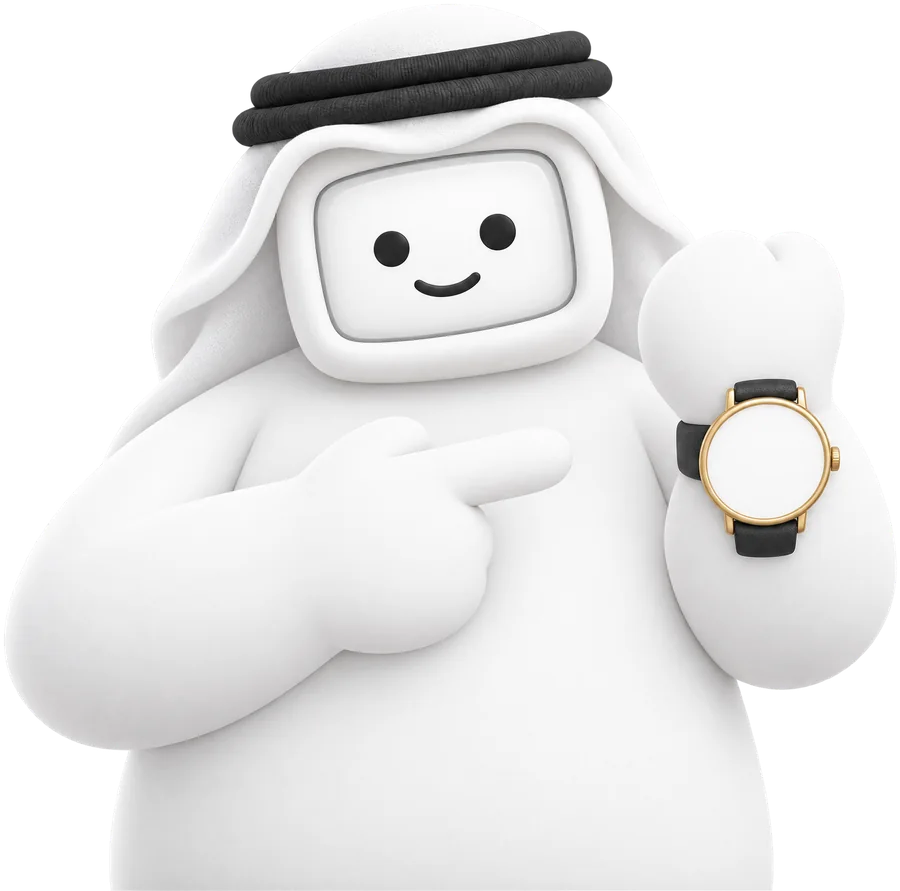
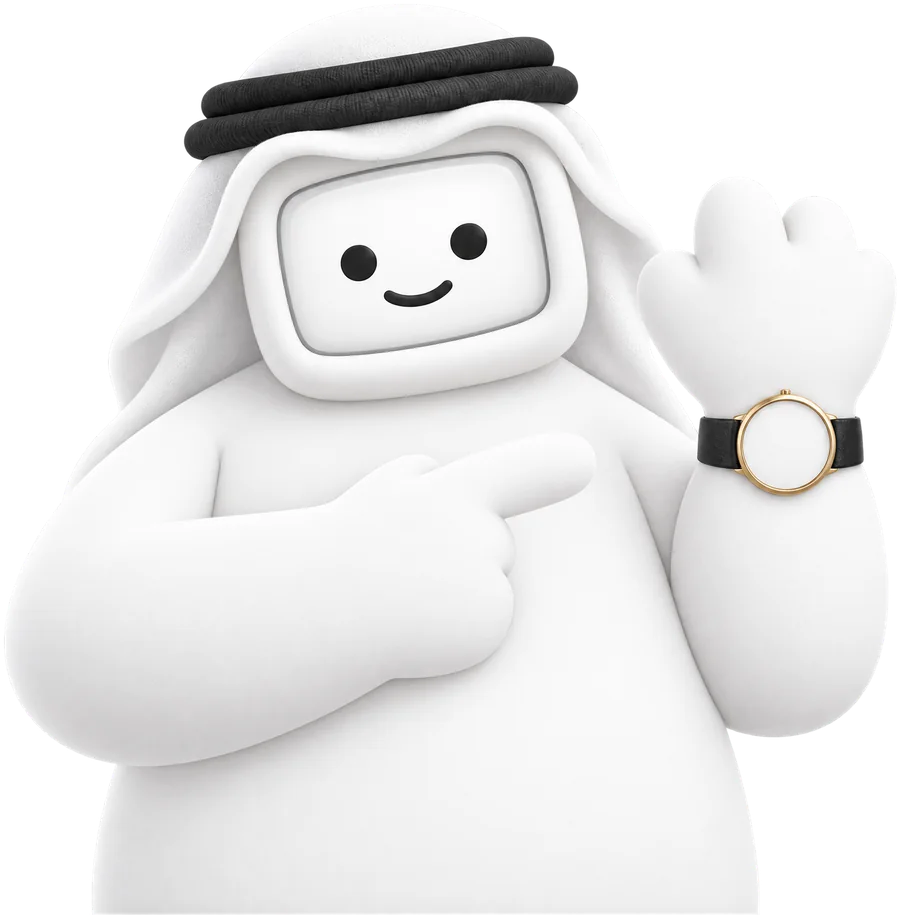
Footer: watch worn on the wrist, real-time ticking hands, body sinks behind the portal lip
- New mascot image: the watch strap wraps the wrist below the hand
  (the first one sat on the side of the fist; archived in art/unused).
- The hands show the visitor's real time and the second hand ticks once
  a second (10:10 in the prerendered HTML; no second hand with reduced
  motion), instead of a minute hand spinning every 3 seconds.
- The portal is one SVG: the mascot is clipped by «everything above the
  hole + the hole itself», so the body goes down into the hole and hides
  behind the front lip along its curve, darkening as it sinks, instead of
  ending on a straight line. The rise still follows the scroll through a
  named view timeline on the HTML wrapper.

Claude-Session: https://claude.ai/code/session_01HEToeVJCXjzhD9Jpw8sRiS

diff --git a/src/components/footer/Footer.tsx b/src/components/footer/Footer.tsx
@@ -1,3 +1,5 @@
+import { useEffect, useRef } from "react";
+import { reduced } from "../../lib/gsap";
 import { APP_URL, LOGIN_URL, SIGNUP_URL } from "../../lib/links";
 import { Ink } from "../Ink";
 import { Container } from "../layout";
@@ -5,7 +7,7 @@ import { LINKS } from "../Nav";
 
 /*
  * الفوتر: الختام فوق (لا تضيّع وقت + سجّل/دخول)، وبعده الشخصية طالعة من بوابة بيضاوية على خط الأفق
- * وتورّيك ساعتها (العقارب تدور)، وتحت الخط الروابط وبيانات المؤسسة.
+ * وتورّيك ساعتها (تمشي على الوقت الحقيقي وعقرب الثواني يتكتك)، وتحت الخط الروابط وبيانات المؤسسة.
  */
 const GROUPS = [
   { title: "الصفحة", links: LINKS },
@@ -104,77 +106,112 @@ export function Footer() {
 }
 
 /*
- * البوابة: خط أفق بعرض المحتوى، وفي نصه فتحة بيضاوية غامقة بحافة بالتدرّج، والشخصية طالعة منها.
- * الطبقات: نص الفتحة اللي ورا (والحافة اللي فوق) ← الشخصية (مقصوصة عند نص الفتحة وتذوب في الظلام) ← الحافة اللي قدّام.
- * لما ينزل الزائر للفوتر الشخصية تطلع من الفتحة (rise في index.css). القص overflow-clip مو hidden،
- * لأن hidden يخلّي الصندوق نفسه حاوية تمرير فالحركة تتبعه بدل الصفحة.
- * الساعة: مكان الوجه من الصورة نفسها (900×891): المركز عند 85.05٪ بالعرض و51.76٪ بالطول، وقطره 12.86٪ من العرض.
+ * البوابة: SVG واحد بعرض الفتحة (1000 وحدة)، وخط الأفق يمر من نصها.
+ * الطبقات: جوف الفتحة والحافة اللي ورا ← الشخصية ← الحافة اللي قدّام.
+ * الشخصية مقصوصة بـ(كل اللي فوق نص الفتحة + الفتحة نفسها): جسمها ينزل داخل الفتحة، ويختفي ورا الحافة اللي قدّام
+ * بنفس انحناءها، ويغمق كل ما نزل. لما ينزل الزائر للفوتر تطلع من الفتحة (rise في index.css، على خط زمني --portal).
+ * الصورة: مقاسها ومكان وجه الساعة فيها (نسبة من عرضها وطولها) في IMG. لو تغيّرت الصورة غيّر الأرقام هنا بس.
  */
+const IMG = { src: "/footer/watch.webp", w: 900, h: 915, dial: { x: 0.874, y: 0.4855, rx: 0.0489, ry: 0.0491 } };
+const HOLE = { w: 1000, cy: 760, rx: 494, ry: 122 };
+const ART_W = 760;
+const ART_H = (ART_W * IMG.h) / IMG.w;
+const ART_X = (HOLE.w - ART_W) / 2;
+const ART_Y = HOLE.cy + HOLE.ry * 0.92 - ART_H; // الخصر تحت الحافة اللي قدّام (مخفي)
+const VIEW_H = HOLE.cy + HOLE.ry + 20;
+const arc = (sweep: 0 | 1) => `M${HOLE.w / 2 - HOLE.rx} ${HOLE.cy}a${HOLE.rx} ${HOLE.ry} 0 0 ${sweep} ${2 * HOLE.rx} 0`;
+
 function Portal() {
+  const { cy, rx, ry } = HOLE;
+  const cx = HOLE.w / 2;
   return (
-    <div className="relative mt-14 lg:mt-16">
-      <span aria-hidden className="absolute inset-x-0 bottom-0 h-px bg-[linear-gradient(90deg,transparent,rgb(255_255_255/0.16)_18%,rgb(255_255_255/0.16)_82%,transparent)]" />
-      <div className="relative mx-auto w-[min(22rem,72vw)]">
-        <Rim part="back" />
-        <div className="relative z-10 aspect-[900/891] overflow-clip [mask-image:linear-gradient(to_top,transparent,#000_16%)]">
-          <div className="rise relative size-full">
-            <img src="/footer/watch.webp" alt="مسوّقك الذكي يأشّر على ساعته" width={900} height={891} loading="lazy" decoding="async" className="size-full" />
+    <div className="portal relative mt-14 lg:mt-16">
+      <span
+        aria-hidden
+        className="absolute inset-x-0 h-px bg-[linear-gradient(90deg,transparent,rgb(255_255_255/0.16)_18%,rgb(255_255_255/0.16)_82%,transparent)]"
+        style={{ top: `${(cy / VIEW_H) * 100}%` }}
+      />
+      <svg viewBox={`0 0 ${HOLE.w} ${VIEW_H}`} role="img" aria-label="مسوّقك الذكي يأشّر على ساعته" className="relative mx-auto block w-[min(30rem,96vw)] overflow-visible">
+        <defs>
+          <linearGradient id="rim" x1="0" x2="1">
+            <stop offset="0" stopColor="#7c5cff" />
+            <stop offset="0.5" stopColor="#d946ef" />
+            <stop offset="1" stopColor="#ffa94d" />
+          </linearGradient>
+          {/* الجدار البعيد داخل الفتحة فيه شوية ضوء، والقريب ظلام */}
+          <linearGradient id="hole" x1="0" y1="0" x2="0" y2="1">
+            <stop offset="0" stopColor="#262a35" />
+            <stop offset="0.45" stopColor="#0b0c10" />
+            <stop offset="1" stopColor="#000" />
+          </linearGradient>
+          <clipPath id="portal-clip">
+            <rect width={HOLE.w} height={cy} />
+            <ellipse cx={cx} cy={cy} rx={rx} ry={ry} />
+          </clipPath>
+          <linearGradient id="sink" gradientUnits="userSpaceOnUse" x1="0" y1={cy - 30} x2="0" y2={cy + ry * 0.75}>
+            <stop offset="0" stopColor="#fff" />
+            <stop offset="1" stopColor="#000" />
+          </linearGradient>
+          <mask id="sink-mask" maskUnits="userSpaceOnUse" x="0" y="0" width={HOLE.w} height={VIEW_H}>
+            <rect width={HOLE.w} height={VIEW_H} fill="url(#sink)" />
+          </mask>
+          <filter id="glow" x="-10%" y="-60%" width="120%" height="220%">
+            <feGaussianBlur stdDeviation="10" />
+          </filter>
+        </defs>
+
+        <ellipse cx={cx} cy={cy} rx={rx} ry={ry} fill="url(#hole)" />
+        <path d={arc(1)} stroke="url(#rim)" strokeWidth="2.5" fill="none" opacity="0.45" />
+        <g clipPath="url(#portal-clip)" mask="url(#sink-mask)">
+          <g className="rise">
+            <image href={IMG.src} x={ART_X} y={ART_Y} width={ART_W} height={ART_H} />
             <Clock />
-          </div>
-        </div>
-        <Rim part="front" />
-      </div>
+          </g>
+        </g>
+        <path d={arc(0)} stroke="url(#rim)" strokeWidth="14" fill="none" opacity="0.5" filter="url(#glow)" />
+        <path d={arc(0)} stroke="url(#rim)" strokeWidth="4.5" fill="none" />
+      </svg>
     </div>
   );
 }
 
-/* الفتحة: بيضاوية أعرض من الشخصية، نصها فوق خط الأفق ونصها تحته */
-function Rim({ part }: { part: "back" | "front" }) {
-  const back = part === "back";
-  return (
-    <svg
-      aria-hidden
-      viewBox="0 0 600 150"
-      className={`absolute -left-[16%] bottom-0 w-[132%] translate-y-1/2 overflow-visible ${back ? "" : "z-20 drop-shadow-[0_0_10px_rgb(217_70_239/0.55)]"}`}
-      fill="none"
-    >
-      <defs>
-        <linearGradient id={`rim-${part}`} x1="0" x2="1">
-          <stop offset="0" stopColor="#7c5cff" />
-          <stop offset="0.5" stopColor="#d946ef" />
-          <stop offset="1" stopColor="#ffa94d" />
-        </linearGradient>
-        {back && (
-          <radialGradient id="hole" cx="0.5" cy="0.42" r="0.6">
-            <stop offset="0" stopColor="#000" />
-            <stop offset="0.7" stopColor="#07080b" />
-            <stop offset="1" stopColor="#15171d" />
-          </radialGradient>
-        )}
-      </defs>
-      {back ? (
-        <>
-          <ellipse cx="300" cy="75" rx="296" ry="71" fill="url(#hole)" />
-          <path d="M4 75a296 71 0 0 1 592 0" stroke={`url(#rim-${part})`} strokeWidth="2.5" opacity="0.55" />
-        </>
-      ) : (
-        <>
-          <path d="M4 75a296 71 0 0 0 592 0" stroke={`url(#rim-${part})`} strokeWidth="3" />
-        </>
-      )}
-    </svg>
-  );
-}
-
-/* عقارب فوق وجه الساعة: الدقائق تدور بسرعة والساعات أبطأ، يعني الوقت يمشي */
+/*
+ * الساعة على الوقت الحقيقي حق الزائر: الساعات والدقائق في مكانها، وعقرب الثواني يتكتك كل ثانية.
+ * مرسومة على وجه 100 وحدة (نص قطره 50) وتنكبر على وجه الساعة اللي في الصورة.
+ * قبل الجافاسكربت (الصفحة المولّدة) تطلع على 10:10. مع «تقليل الحركة» بدون عقرب الثواني.
+ */
 function Clock() {
+  const hands = useRef<SVGGElement>(null);
+  useEffect(() => {
+    const [h, m, sec] = [...hands.current!.children] as SVGGElement[];
+    const calm = reduced();
+    if (calm) sec.style.display = "none";
+    const set = () => {
+      const t = new Date();
+      const s = t.getSeconds(), min = t.getMinutes() + s / 60;
+      h.setAttribute("transform", `rotate(${((t.getHours() % 12) + min / 60) * 30})`);
+      m.setAttribute("transform", `rotate(${min * 6})`);
+      sec.setAttribute("transform", `rotate(${s * 6})`);
+    };
+    set();
+    const id = window.setInterval(set, calm ? 30000 : 1000);
+    return () => clearInterval(id);
+  }, []);
+
+  const x = ART_X + IMG.dial.x * ART_W, y = ART_Y + IMG.dial.y * ART_H;
+  const sx = (IMG.dial.rx * ART_W) / 50, sy = (IMG.dial.ry * ART_H) / 50;
   return (
-    <svg aria-hidden viewBox="-50 -50 100 100" className="absolute left-[85.05%] top-[51.76%] w-[12.86%] -translate-x-1/2 -translate-y-1/2">
-      <circle r="47" fill="#fbfbfc" />
-      <path d="M0-43v6M43 0h-6M0 43v-6M-43 0h6" stroke="#c4c8d0" strokeWidth="3" strokeLinecap="round" />
-      <line className="clock-h" y2="-22" stroke="#111318" strokeWidth="5.5" strokeLinecap="round" />
-      <line className="clock-m" y2="-34" stroke="#111318" strokeWidth="3.5" strokeLinecap="round" />
-      <circle r="4" fill="#d946ef" />
-    </svg>
+    <g transform={`translate(${x} ${y}) scale(${sx} ${sy})`}>
+      <circle r="46" fill="#fbfbfc" />
+      {Array.from({ length: 12 }, (_, i) => (
+        <line key={i} y1="-42" y2={i % 3 ? "-38" : "-35"} stroke={i % 3 ? "#c9ccd3" : "#8a8f9c"} strokeWidth={i % 3 ? 2 : 3} strokeLinecap="round" transform={`rotate(${i * 30})`} />
+      ))}
+      <g ref={hands} strokeLinecap="round">
+        <g transform="rotate(300)"><line y1="5" y2="-22" stroke="#111318" strokeWidth="5.5" /></g>
+        <g transform="rotate(60)"><line y1="5" y2="-33" stroke="#111318" strokeWidth="3.5" /></g>
+        <g><line y1="9" y2="-38" stroke="#d946ef" strokeWidth="1.6" /></g>
+      </g>
+      <circle r="3.4" fill="#d946ef" />
+    </g>
   );
 }

diff --git a/src/index.css b/src/index.css
@@ -235,12 +235,18 @@ body {
   }
 }
 
-/* الفوتر: الشخصية تطلع من البوابة وإنت نازل (مع التمرير، ومكانها النهائي لو المتصفح ما يدعمها) */
+/* الفوتر: الشخصية تطلع من البوابة وإنت نازل (مع التمرير، ومكانها النهائي لو المتصفح ما يدعمها).
+   الخط الزمني على غلاف البوابة (عنصر HTML)، والحركة على مجموعة داخل الـ SVG */
 @supports (animation-timeline: view()) {
   @media (prefers-reduced-motion: no-preference) {
+    .portal {
+      view-timeline: --portal block;
+    }
+
     .rise {
+      transform-box: fill-box;
       animation: rise linear both;
-      animation-timeline: view();
+      animation-timeline: --portal;
       animation-range: entry 10% cover 42%;
     }
   }
@@ -248,30 +254,6 @@ body {
 
 @keyframes rise {
   from {
-    transform: translateY(72%);
-  }
-}
-
-/* عقارب الساعة: تبدأ على 10:10، والدقائق تلف بسرعة كأن الوقت يركض */
-.clock-h,
-.clock-m {
-  transform-box: view-box;
-  transform-origin: 50% 50%;
-  animation: tick linear infinite;
-}
-
-.clock-h {
-  rotate: 300deg;
-  animation-duration: 36s;
-}
-
-.clock-m {
-  rotate: 60deg;
-  animation-duration: 3s;
-}
-
-@keyframes tick {
-  to {
-    transform: rotate(360deg);
+    transform: translateY(70%);
   }
 }

diff --git a/art/README.md b/art/README.md
@@ -14,3 +14,6 @@ ads (مكبّر صوت)، tracking (لوحة أهداف)، design (كاميرا)
 
 ## unused/why
 - coffee-welcome: نفس فكرة «تفضّل قهوتك» بدون دلّة، واليد الثانية على الصدر. المستخدمة في الموقع هي اللي فيها الدلّة (`public/why/coffee.webp`).
+
+## unused/footer
+- watch-on-hand: أول نسخة للفوتر، الساعة طالعة على جنب الكف بدل ما تكون على المعصم. المستخدمة `public/footer/watch.webp` (الساعة على المعصم).
